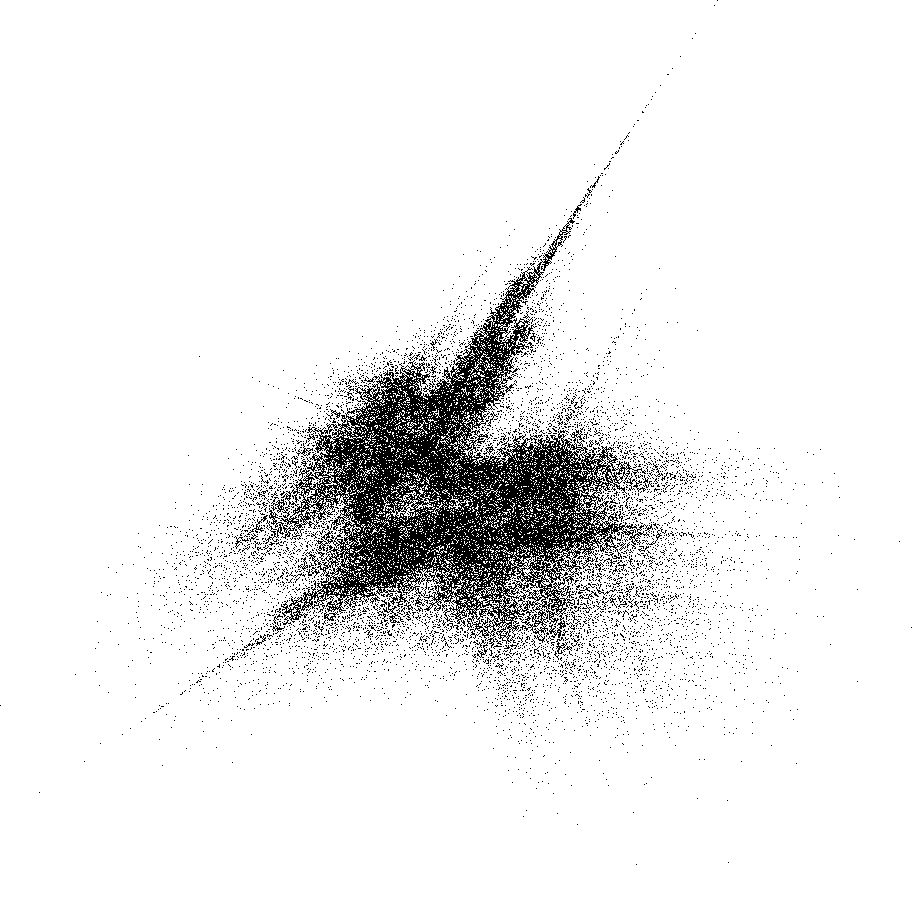
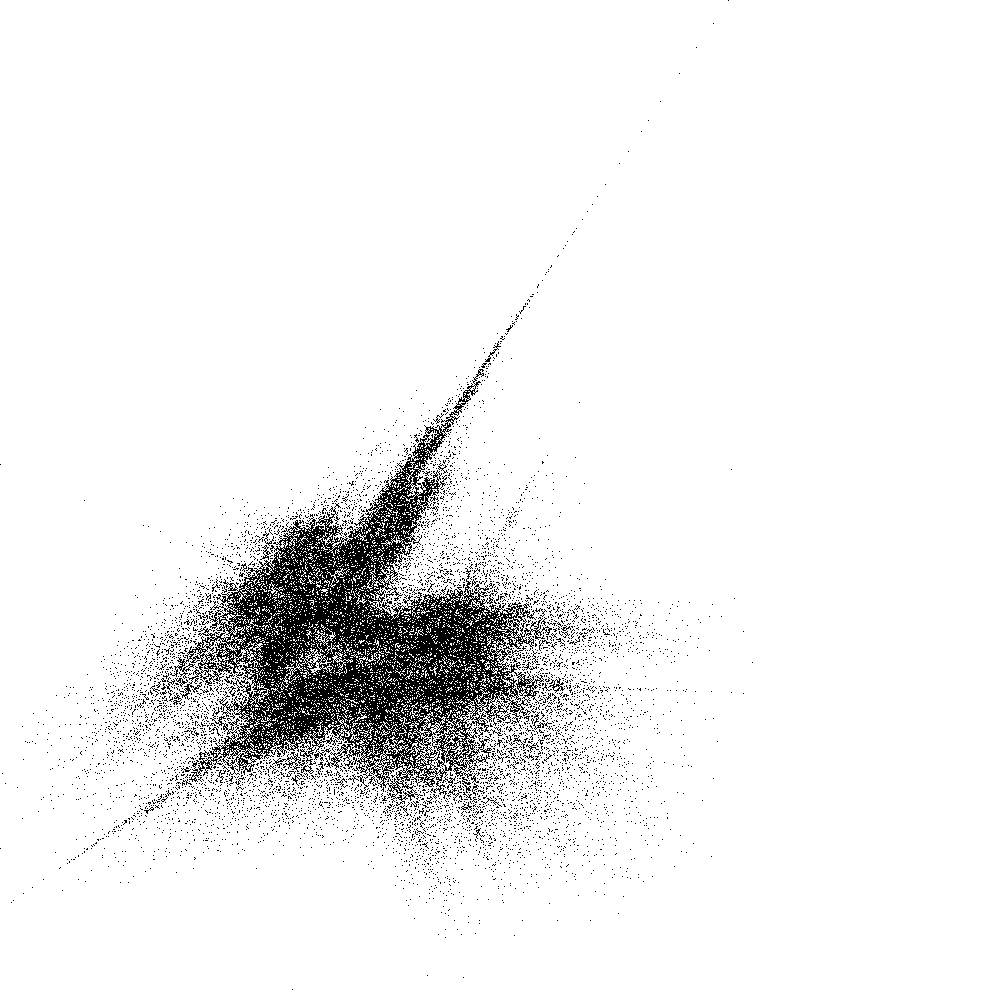
lab 4 task added

Changed region(s): [[0.0921, 0.2149, 0.7675, 0.8904], [0.0921, 0.8289, 0.1228, 0.8596]]

diff --git a/Mathematical_Modeling/04_lab/02_task/attractor.py b/Mathematical_Modeling/04_lab/02_task/attractor.py
@@ -1,5 +1,5 @@
 from random import uniform
-from math import log, floor
+from math import log
 from argparse import ArgumentParser
 import png
 

diff --git a/Mathematical_Modeling/04_lab/README.md b/Mathematical_Modeling/04_lab/README.md
@@ -1,0 +1,3 @@
+# Условие
+
+![task](./task.jpg "task")
